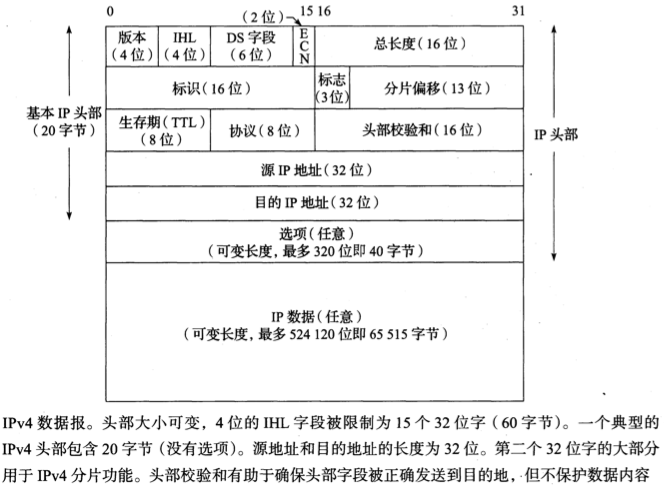
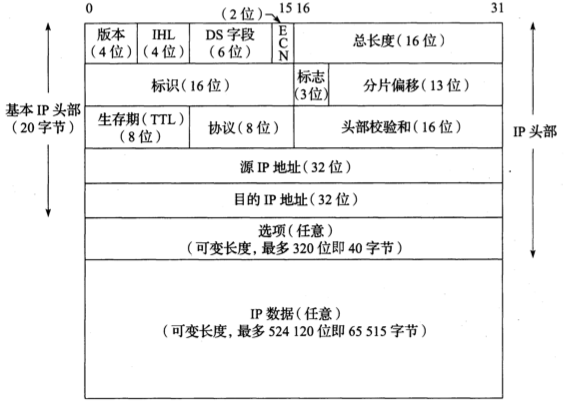
提交

Changed region(s): [[0.0, 0.0, 0.9929, 1.0], [0.9327, 0.3824, 0.9628, 0.6471], [0.9327, 0.0588, 0.9628, 0.2647]]

diff --git a/NET/ip.md b/NET/ip.md
@@ -1,42 +1,124 @@
 [TOC]
 
-# Internet协议
+# IP
+
+IP(Intern)是TCP/IP协议族中的核心协议。所有TCP，UDP，ICMP和IGMP数据都通过IP数据报传输，但是不保证IP数据报能成功到达目的地。
+
+
+
+## 分类寻址
+
+- A类
+
+  | 1bit | 7bit              | 24bit       |
+  | ---- | ----------------- | ----------- |
+  | 0    | 网络号-Net Number | 主机号-Host |
+
+- B类
+
+  | 1bit | 1bit | 14bit             | 16bit       |
+  | ---- | ---- | ----------------- | ----------- |
+  | 1    | 0    | 网络号-Net Number | 主机号-Host |
+
+- C类
+
+  | 1bit | 1bit | 1bit | 21bit             | 8bit        |
+  | ---- | ---- | ---- | ----------------- | ----------- |
+  | 1    | 1    | 0    | 网络号-Net Number | 主机号-Host |
+
+- D类
+
+  | 1bit | 1bit | 1bit | 1bit | 28bit                      |
+  | ---- | ---- | ---- | ---- | -------------------------- |
+  | 1    | 1    | 1    | 0    | 多播组号-Multicast Address |
+
+- E类
+
+  | 1bit | 1bit | 1bit | 1bit | 1bit | 28bit         |
+  | ---- | ---- | ---- | ---- | ---- | ------------- |
+  | 1    | 1    | 1    | 1    | 0    | 保留-Reserved |
+
+A, B, C类用于单播
+
+
 
 ## IPv4
+
+ipv4地址长32bit，通常采用`Dotted decimal notation(点分十进制)`的方法表示。
 
 ### 协议头
 
 ![ip_v4_head_struct](res/ip_v4_head_struct.png)
 
-- 版本（4位）
+- `版本`（4bit）
 
-  - IPv4: 4
-  
-- IHL（Internet头部长度，仅限IPv4，4位）
+  IP协议版本，值为4；
 
-  描述32位字的数量，Internet最多$32*15=480$位，即60字
-  
-- DS字段（服务字段，6位）
+- `IHL` （4bit）
 
-- ECN（显式拥塞通知，2位）：标记网络拥堵情况，用于滑动窗口。
+  Internet头部长度，描述32位字的数量，Internet最多$32*15=480$位，即60字；
 
-- 总长度（16位）：IPv4数据报的总长度（单位：字节），最大$2^{16}=65535$字节
+- `DS字段`（6bit）
 
-- 标识（16位）：标记数据报ID，自增
+  服务字段，详情见[DS字段](#DS字段)
 
-- 标志（3位）：
+- `ECN`（2bit）
 
-- 分片偏移（13位）：
+  显式拥塞通知，标记网络拥堵情况，用于滑动窗口；
 
-- 生存期（TTL，8位）：可经过的路由器数量的上限，每过一台路由器就减1，到0就丢弃；一般初始化为64或128或255
+- `总长度`（16bit）
 
-- 协议（8位）：
+  IPv4数据报的总长度（单位：字节），最大$2^{16}=65535$字节；
 
-- 头部校验和（Internet校验和，16位）：校验数据报头是否完整
+- `标识`（16bit）
 
-- 源IP地址（32位）
+  标记数据报ID，自增
 
-- 目的IP地址（32位）
+- `标志`（3bit）？
+
+- `分片偏移`（13bit）？
+
+- `生存期`（8bit，TTL）
+
+  可经过的路由器数量的上限，每过一台路由器就减1，到0就丢弃；一般初始化为64或128或255
+
+- `协议`（8bit）？
+
+- `头部校验和`（16bit）
+
+  校验数据报头是否完整，详情见[Internet校验和](#Internet校验和)
+
+- `源IP地址`（32bit）？
+
+- `目的IP地址`（32bit）？
+
+- `选项`（变长）
+
+  如果选项存在，它在IPv4分组中紧跟在基本IPv4头部之后。选项由一个8位的类型字段标识。这个字段被细分为3个子字段：复制（1位），类别（2位）和编号（5位）。选项0和1的长度是1字节，多数的其他选项的长度可变。可变选项包括1字节的类型标识符，1字节的长度以及选项自身
+
+  | 名称           | 编号   | 值         | 长度 | 描述                                                         | 参考文献                   | 注释             |
+  | -------------- | ------ | ---------- | ---- | ------------------------------------------------------------ | -------------------------- | ---------------- |
+  | 列表结尾       | 0      | 0          | 1    | 表示没有更多选项                                             | `[RFC0791]`                | 如果需要         |
+  | 没有操作       | 1      | 1          | 1    | 表示没有操作执行（用于填充）                                 | `[RFC0791]`                | 如果需要         |
+  | 源路由         | 3<br>9 | 131<br>137 | 可变 | 发送方列出分组转发时遍历的路由器“航点”。松散意味着其他路由器可以包含在航点（3，131）中。严格意味着（9，137）中的所有航点都要按顺序遍历 | `[RFC0791]`                | 很少，经常被过滤 |
+  | 安全和处理标签 | 2<br>5 | 130<br>133 | 11   | 在美国军事环境下如何为IP数据报指定安全标签和处理限制         | `[RFC1108]`                | 历史的           |
+  | 记录路由       | 7      | 7          | 可变 | 在分组的头部中记录经过的路由器                               | `[RFC0791]`                | 很少             |
+  | 时间戳         | 4      | 68         | 可变 | 在分组的源和目的地记录日期和时间                             | `[RFC0791]`                | 很少             |
+  | 流ID           | 8      | 136        | 4    | 携带16位的SATNET流标识符                                     | `[RFC0791]`                | 历史的           |
+  | EIP            | 17     | 145        | 可变 | 扩展Internet协议                                             | `[RFC1385]`                | 历史的           |
+  | 跟踪           | 18     | 82         | 可变 | 增加一个路由跟踪选项和ICMP报文                               | `[RFC1393]`                | 历史的           |
+  | 路由器警告     | 20     | 148        | 4    | 表示一个路由器需要解释数据报的内容                           | `[RFC2113]`<br>`[RFC5350]` | 偶然             |
+  | 快速启动       | 25     | 25         | 8    | 表示启动快速传输协议（实验性的）                             | `[RFC4782]`                | 很少             |
+
+### ipv4空间划分
+
+| 类   | 地址范围                  | High-Order Bits | Use             | Fraction of Total | Number of Nets | Number of Hosts |
+| ---- | ------------------------- | --------------- | --------------- | ----------------- | -------------- | --------------- |
+| A    | 0.0.0.0~127.255.255.255   | 0               | Unicast/special | 1/2               | 128            | 16,777,216      |
+| B    | 128.0.0.0~191.255.255.255 | 10              | Unicast/special | 1/4               | 16,384         | 65536           |
+| C    | 192.0.0.0~223.255.255.255 | 110             | Unicast/special | 1/8               | 2,097,152      | 256             |
+| D    | 224.0.0.0~239.255.255.255 | 1110            | Multicast       | 1/16              | N/A            | N/A             |
+| E    | 240.0.0.0~255.255.255.255 | 1111            | Reserved        | 1/16              | N/A            | N/A             |
 
 
 
@@ -46,16 +128,41 @@
 
 ![ip_v6_head_struct](res/ip_v6_head_struct.png)
 
-- 版本（4位）
+- `版本`
 
-  - IPv6: 6
-- DS字段
-- 流标签（20位）
-- 负载长度（16位）
-- 下一个头部（8位）
-- 跳数限制（8位）
-- 源IP地址（128位）
-- 目的IP地址（128位）
+  （4bit）IP协议版本，值为6；
+
+- `DS字段`
+
+  （6bit）服务字段，详情见[DS字段](#DS字段)；
+
+- `ECN` 
+
+  （2bit）显式拥塞通知，标记网络拥堵情况，用于滑动窗口；
+
+- `流标签`
+
+  （20bit）
+
+- `负载长度`
+
+  （16bit）
+
+- `下一个头部`
+
+  （8bit）
+
+- `跳数限制`
+
+  （8bit）
+
+- `源IP地址`
+
+  （128bit）
+
+- `目的IP地址`
+
+  （128bit）
 
 
 
@@ -65,7 +172,9 @@
 
 ![ip_head_ds](res/ip_head_ds.png)
 
-- 优先级（3位）：低优先级可以被高优先级抢占，不同优先级有不同的被丢弃概率。共8级
+- `优先级`
+
+  （3bit）低优先级可以被高优先级抢占，不同优先级有不同的被丢弃概率。共8级：
 
   | 值   | 优先级   |
   | ---- | -------- |
@@ -78,20 +187,55 @@
   | 110  | 网间控制 |
   | 111  | 网络控制 |
 
-- D（1位）：延时
+- `D`
 
-- T（1位）：吞吐量
+  （1bit）延时
 
-- R（1位）：可靠性
+- `T`
+
+  （1bit）吞吐量
+
+- `R`
+
+  （1bit）可靠性
+
+- `保留`
+
+  （2bit）默认0
 
 
 
 ## Internet校验和
 
+Internet校验和是一个被校验数据（如果被计算的字节数为奇数，用0填充）的16位反码和的反码。如果被计算数据包括一个校验和字段，该字段在进行校验和运算之前被设置为0，然后将计算出的校验和填充到该字段。为了检查一个包含校验和字段（头部，有效载荷等）的数据输入是否有效，需要对整个数据块（包括检验和字段）同样计算校验和。由于校验和字段本质上是其余数据校验和的反码，对正确接收的数据计算校验和应产生一个值0；例：
+
 ![ip_verify](res/ip_verify.png)
+
+
+
+## 子网掩码
+
+由一台主机或路由器实用的分配位，以确定如何从一台主机对应IP地址中获得网络和子网信息。
+
+例，一个IP地址与子网掩码按位与操作：
+
+![ip_subnet_mask](rip_subnet_mask.png)
+
+### 可变长度子网掩码
+
+可变长度子网掩码(VLSM)
+
+例，使用VLSM分割一个网络号，使每个子网支持不同数量的:
+
+![ip_vlsm](res/ip_vlsm.png)
+
+- `/24`: 允许`32-24=8`位（256台主机）
+- `/25`: 允许`32-25=7位`（128台主机）
+- `/26`: 允许`32-26=6`位（64台主机）
 
 
 
 ## 参考
 
-- <<TCP/IP详解>>.卷一.第五章
+- TCP/IP详解>.卷一.第五章
+

diff --git a/NET/tcp.md b/NET/tcp.md
@@ -36,29 +36,37 @@ RTT(round-trip-time estimation， 往返时间估计)
 
 - `保留字段`(4bit)
 
-- `CWR`(1bit) 缩小拥塞窗口
+- `CWR`(1bit) 
 
-  发送方用来降低它的发送速率
+  缩小拥塞窗口，发送方用来降低它的发送速率
 
-- `ECE`(1bit) ECN回显
+- `ECE`(1bit)
 
-  发送方收到了一个更早的拥塞通告
+  ECN回显，发送方收到了一个更早的拥塞通告
 
-- `URG`(1bit) 紧急
+- `URG`(1bit) 
 
-  让`紧急指针`生效，很少使用
+  紧急，让`紧急指针`生效，很少使用
 
-- `ACK`(1bit) 确认
+- `ACK`(1bit)
 
-  让`确认号字段`生效，建立连接后启用
+  确认，让`确认号字段`生效，建立连接后启用
 
-- `PSH`(1bit) 推送
+- `PSH`(1bit) 
 
-- `RST`(1bit) 重置连接 
+  推送
 
-- `SYN`(1bit) 初始化同步序号
+- `RST`(1bit) 
 
-- `FIN`(1bit) 发送数据结束
+  重置连接 
+
+- `SYN`(1bit) 
+
+  初始化同步序号
+
+- `FIN`(1bit)
+
+  发送数据结束
 
 - `窗口大小`(16bit)
 

diff --git a/HEALTH/BEAR/bear.md b/HEALTH/BEAR/bear.md
@@ -219,6 +219,29 @@ TODO
 
 ## 费用
 
+### 生育费用
+
+TODO
+
+### 生育保险
+
+#### 生育医疗费用
+
+| 项目                      | 广州 |
+| ------------------------- | ---- |
+| 产前检查                  |      |
+| 顺产                      |      |
+| 难产(含刨宫产)            |      |
+| 多胎分娩                  |      |
+| 流产/引产<br>(门诊和住院) |      |
+| 领取条件                  |      |
+
+#### 生育津贴
+
+生育津贴由生育保险基金按照参保人生育或者计算公式：$生育津贴=单位上年度职工月平均工资\div30\times规定的假期天数$
+
+- 规定的假期天数按广州最低标准计算
+
 TODO
 
 

diff --git a/NOTE/TCP_IP_ILLUSTRATED_V1/chapter13.md b/NOTE/TCP_IP_ILLUSTRATED_V1/chapter13.md
@@ -127,8 +127,13 @@ TIME_WAIT状态也称为`2MSL等待状态`或`加倍等待`，TCP将会等待两
 
 2MSL的值可以被修改，其值的保存位置如下：
 
-- `linux`（单位：秒） net.ipv4.tcp_fin_timeout。
-- `windows` HKLM\SYSTEM\CurrentControlSet\Services\Tcpip\Parameters\TcpTimeWaitDelay。
+- `linux`
+
+  （单位：秒） `net.ipv4.tcp_fin_timeout`。
+
+- `windows` 
+
+  `HKLM\SYSTEM\CurrentControlSet\Services\Tcpip\Parameters\TcpTimeWaitDelay`。
 
 影响2MSL等待状态的因素：
 

diff --git a/NOTE/TCP_IP_ILLUSTRATED_V1/chapter12.md b/NOTE/TCP_IP_ILLUSTRATED_V1/chapter12.md
@@ -40,7 +40,7 @@ RTT(round-trip-time estimation， 往返时间估计)
 
 TCP提供了一种*面向连接的(connection-oriented)，可靠的*字节流服务。
 
-### 
+
 
 ## TCP头部和封装
 

diff --git a/NET/README.md b/NET/README.md
@@ -8,7 +8,7 @@
 
 - [网络I/O](io.md)
 
-- [Internet协议](ip.md)
+- [IP](ip.md)
 
 - [KRPC协议]
 
